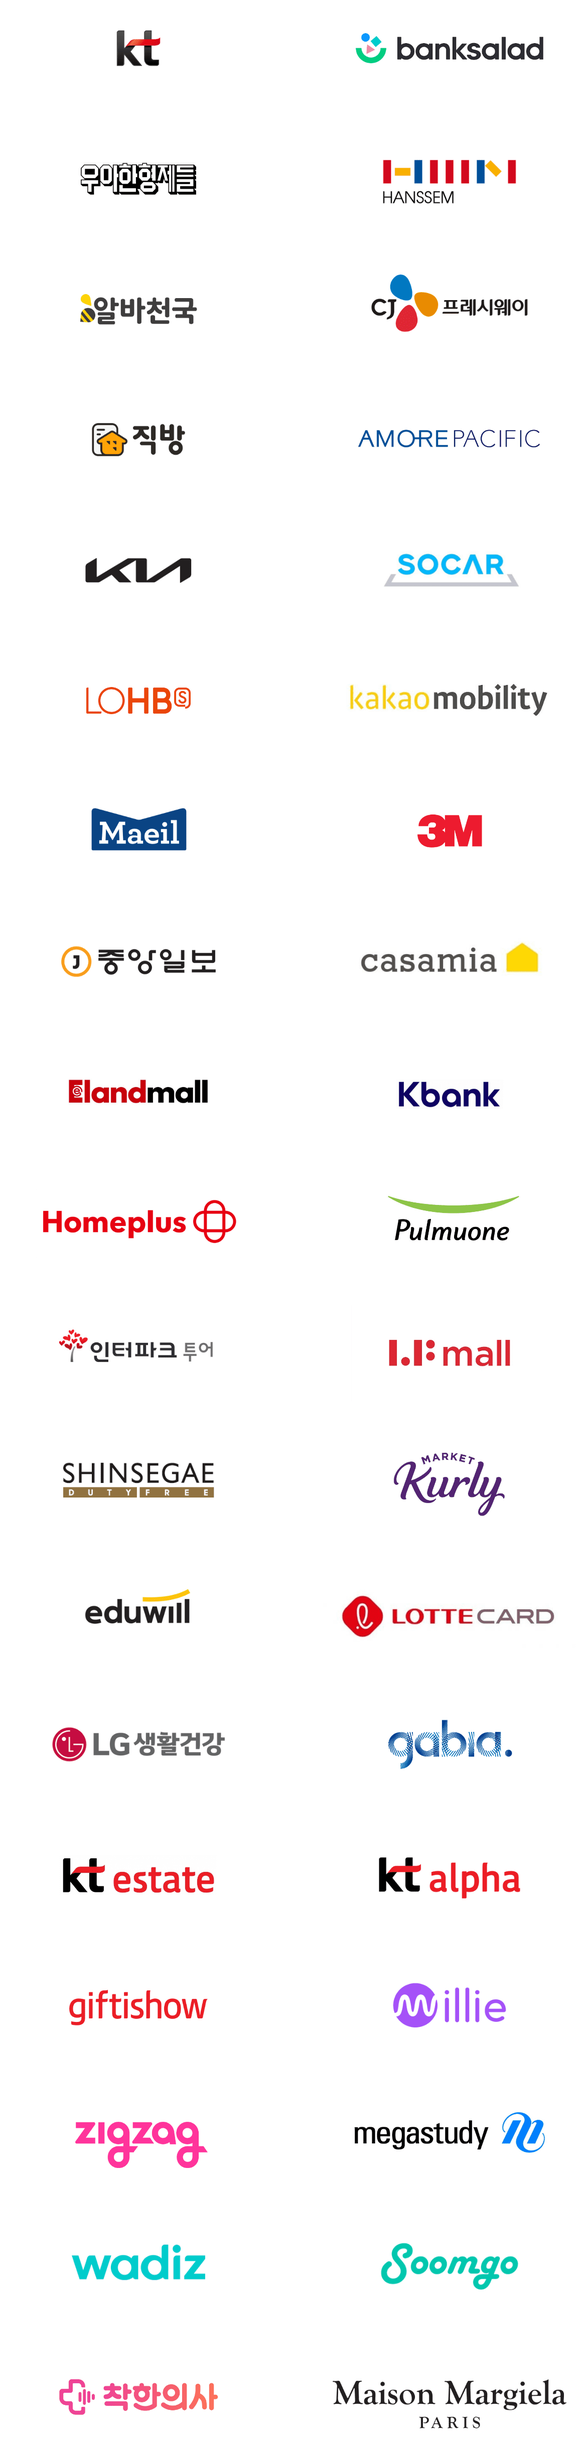
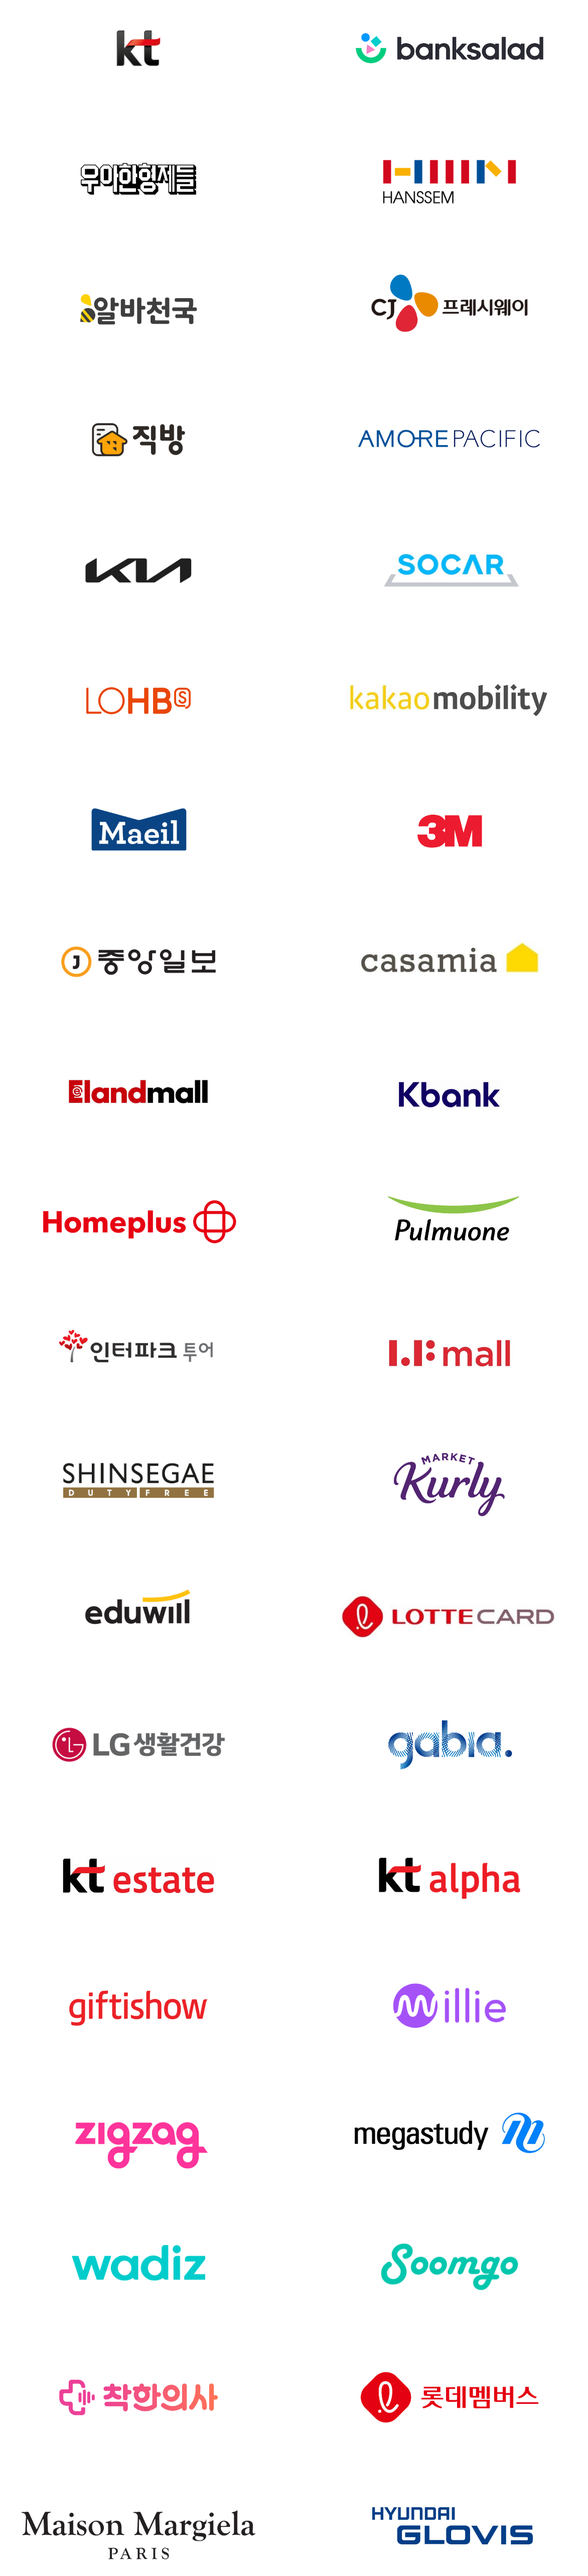
수정사항 반영

diff --git a/src/w/welfare.html b/src/w/welfare.html
@@ -87,16 +87,6 @@
 			<div class="sub-content">
 				<div class="list-content">
 					<p class="list-content__icon">
-						<img src="../assets/images/w/sub/sub_icon__welfare-4.png" alt="icon">
-					</p>
-					<p class="list-content__title">외근/야근 택시비 지원</p>
-					<p class="list-content__description">
-            외근과 야근 발생 시 업무 택시를 지원하며<br>
-            야근 시에는 석식비도 함께 지원합니다.
-					</p>	
-				</div>
-				<div class="list-content">
-					<p class="list-content__icon">
 						<img src="../assets/images/w/sub/sub_icon__welfare-5.png" alt="icon">
 					</p>
 					<p class="list-content__title">시차출퇴근제</p>
@@ -113,6 +103,16 @@
 					<p class="list-content__title">통신비 지원</p>
 					<p class="list-content__description">
 						KT 통신사를 이용하는 임직원에 한 해 매월 통신비의 일부를 지원을 해드립니다.<br><br><br>
+					</p>	
+				</div>
+				<div class="list-content">
+					<p class="list-content__icon">
+						<img src="../assets/images/w/sub/sub_icon__welfare-4.png" alt="icon">
+					</p>
+					<p class="list-content__title">외근/야근 택시비 지원</p>
+					<p class="list-content__description">
+            외근과 야근 발생 시 업무 택시를 지원하며<br>
+            야근 시에는 석식비도 함께 지원합니다.
 					</p>	
 				</div>
 			</div>

diff --git a/src/w/about.html b/src/w/about.html
@@ -458,6 +458,7 @@
             <td class="logo-list__item"><img src="../assets/images/w/sub/mo_logo_44.png" alt="soomgo" class="image-block"></td>
             <td class="logo-list__item"><img src="../assets/images/w/sub/mo_logo_45.png" alt="롯데멤버스" class="image-block"></td>
             <td class="logo-list__item"><img src="../assets/images/w/sub/mo_logo_47.png" alt="masion margiela" class="image-block"></td>
+            <td class="logo-list__item"><img src="../assets/images/w/sub/mo_logo_48.png" alt="현대글로비스" class="image-block"></td>
           </tr>
           <!--// e 20220704 -->
         </table>
